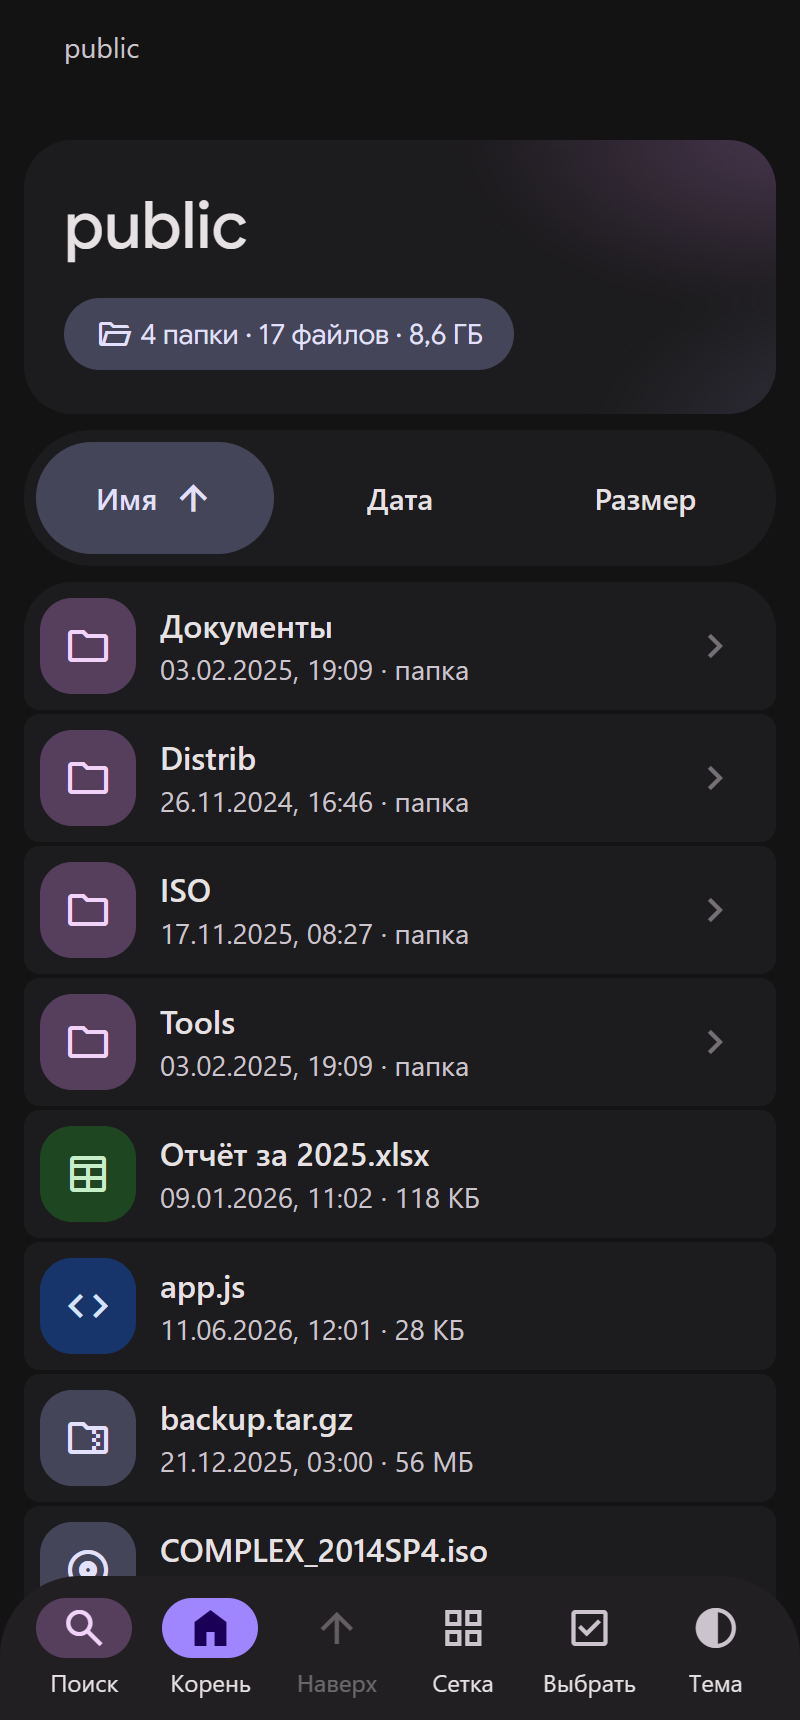
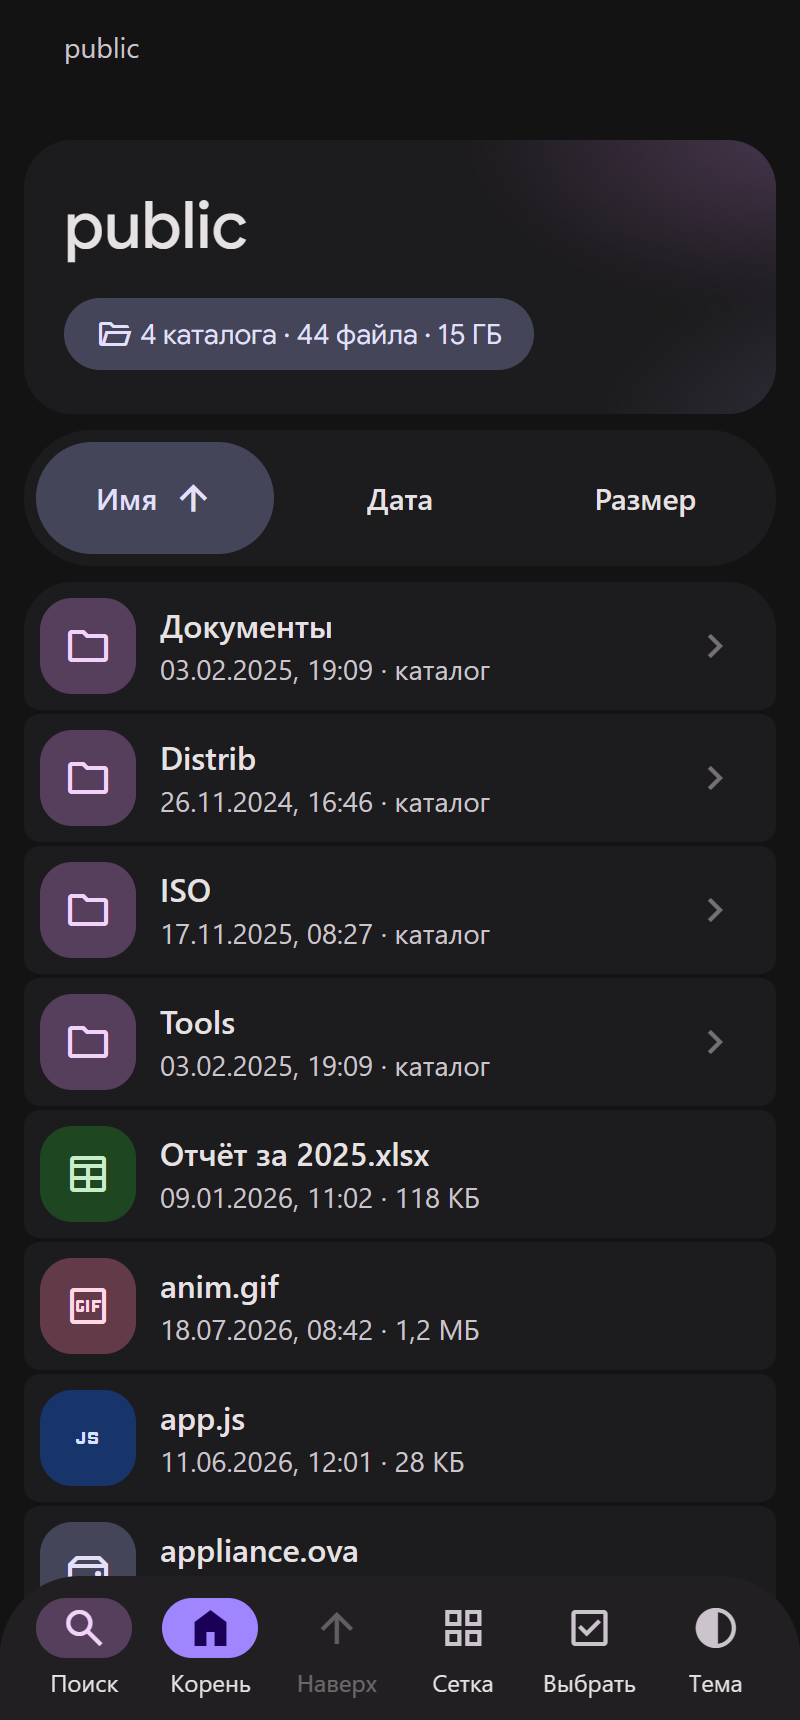
Per-extension glyphs, animated checkbox morph, 'каталог' in the RU strings

diff --git a/dist/m3listing.js b/dist/m3listing.js
@@ -27,16 +27,16 @@
      ------------------------------------------------------------------ */
   var STR = {
     ru: {
-      search: 'Поиск в этой папке', up: 'Наверх', root: 'Корень', home: 'Корень',
+      search: 'Поиск в этом каталоге', up: 'Наверх', root: 'Корень', home: 'Корень',
       name: 'Имя', date: 'Дата', size: 'Размер', theme: 'Тема',
       find: 'Поиск', close: 'Закрыть',
       viewList: 'Список', viewGrid: 'Сетка',
       copy: 'Скопировать ссылку', download: 'Скачать', copied: 'Ссылка скопирована',
       pick: 'Выбрать', selected: 'Выбрано:', dl: 'Скачать', links: 'Ссылки',
       dlStarted: 'Загрузка: {n}', copiedN: 'Скопировано ссылок: {n}',
-      nothing: 'Ничего не найдено', emptyDir: 'Папка пуста', clear: 'Очистить',
-      dirs: ['папка', 'папки', 'папок'], files: ['файл', 'файла', 'файлов'],
-      folder: 'папка', empty: 'пусто'
+      nothing: 'Ничего не найдено', emptyDir: 'Каталог пуст', clear: 'Очистить',
+      dirs: ['каталог', 'каталога', 'каталогов'], files: ['файл', 'файла', 'файлов'],
+      folder: 'каталог', empty: 'пусто'
     },
     en: {
       search: 'Search this folder', up: 'Up', root: 'Root', home: 'Root',
@@ -117,16 +117,20 @@
 
   var GS_MODE = 'pending';        // 'pending' | 'font' | 'svg'
 
-  function icon(name, cls) {
+  function icon(name, cls, fb) {
     var s = document.createElement('span');
     s.className = 'gs' + (cls ? ' ' + cls : '');
     s.setAttribute('aria-hidden', 'true');
     s.dataset.i = name;
+    if (fb) s.dataset.fb = fb;
     s.textContent = name;
     if (GS_MODE === 'svg') toSvg(s);
     return s;
   }
 
+  /* The webfont carries a glyph for every extension below; the bundled SVG
+     set is deliberately coarser (one per family), so a fine-grained name
+     falls back to its family's artwork rather than bloating this file. */
   function toSvg(span) {
     var name = span.dataset.i || span.textContent.trim();
     span.textContent = '';
@@ -134,7 +138,7 @@
     var s = document.createElementNS('http://www.w3.org/2000/svg', 'svg');
     s.setAttribute('viewBox', '0 -960 960 960');
     var p = document.createElementNS('http://www.w3.org/2000/svg', 'path');
-    p.setAttribute('d', P[name] || P.draft);
+    p.setAttribute('d', P[name] || P[span.dataset.fb] || P.draft);
     s.appendChild(p);
     span.appendChild(s);
   }
@@ -156,59 +160,126 @@
   }
 
   /* ------------------------------------------------------------------
-     Extension → { icon, accent }.  Accents a1..a8 are container colours
-     lifted from m3.material.io's own badges, fabs and pills.
-     ------------------------------------------------------------------ */
-  var KIND = {
-    dir:     { icon: 'folder',         acc: 'a1' },
-    image:   { icon: 'image',          acc: 'a3' },
-    video:   { icon: 'movie',          acc: 'a3' },
-    audio:   { icon: 'music_note',     acc: 'a4' },
-    archive: { icon: 'folder_zip',     acc: 'a2' },
-    disk:    { icon: 'album',          acc: 'a2' },
-    exec:    { icon: 'deployed_code',  acc: 'a6' },
-    pdf:     { icon: 'picture_as_pdf', acc: 'a8' },
-    doc:     { icon: 'description',    acc: 'a7' },
-    text:    { icon: 'text_snippet',   acc: 'a7' },
-    sheet:   { icon: 'table',          acc: 'a4' },
-    slides:  { icon: 'slideshow',      acc: 'a7' },
-    code:    { icon: 'code',           acc: 'a7' },
-    shell:   { icon: 'terminal',       acc: 'a7' },
-    font:    { icon: 'font_download',  acc: 'a5' },
-    db:      { icon: 'database',       acc: 'a7' },
-    key:     { icon: 'key',            acc: 'a6' },
-    sub:     { icon: 'subtitles',      acc: 'a5' },
-    torrent: { icon: 'link',           acc: 'a5' },
-    conf:    { icon: 'settings',       acc: 'a7' },
-    file:    { icon: 'draft',          acc: 'a5' }
-  };
+     Extension → { icon, accent, svg fallback }.
 
+     The glyph is per extension — .html, .css, .js, .json, .py and .sh do
+     not all deserve the same `code` mark. The accent is per family, so the
+     page keeps eight colours rather than eighty: a1 directories, a2
+     archives and disk images, a3 pictures and video, a4 audio and sheets,
+     a5 everything else, a6 executables and installers, a7 documents, code,
+     config and crypto, a8 PDF. All eight are container colours lifted from
+     m3.material.io's own badges, fabs and pills.
+     ------------------------------------------------------------------ */
   var EXT = {};
-  (function map(groups) {
-    Object.keys(groups).forEach(function (k) {
-      groups[k].forEach(function (e) { EXT[e] = k; });
+  function reg(exts, glyph, acc, fb) {
+    exts.split(' ').forEach(function (e) {
+      EXT[e] = { icon: glyph, acc: acc, fb: fb || glyph };
     });
-  })({
-    image:   ['jpg','jpeg','png','gif','bmp','webp','svg','tif','tiff','ico','heic','heif','avif','psd','xcf','raw','cr2','nef','dng'],
-    video:   ['mp4','mkv','avi','mov','wmv','flv','webm','m4v','mpg','mpeg','ts','m2ts','vob','3gp','ogv'],
-    audio:   ['mp3','flac','wav','ogg','oga','m4a','aac','wma','opus','ape','mid','midi','aiff'],
-    archive: ['zip','rar','7z','tar','gz','tgz','bz2','tbz','xz','zst','lz','lzma','cab','arj','z'],
-    disk:    ['iso','img','dmg','vhd','vhdx','vmdk','wim','esd','nrg','mdf','cue','bin'],
-    exec:    ['exe','msi','msu','appimage','deb','rpm','apk','pkg','run','com','dll','sys','jar'],
-    pdf:     ['pdf','djvu','xps'],
-    doc:     ['doc','docx','odt','rtf','pages','epub','fb2','mobi'],
-    text:    ['txt','md','markdown','log','nfo','readme','me'],
-    sheet:   ['xls','xlsx','xlsm','ods','csv','tsv','numbers'],
-    slides:  ['ppt','pptx','odp'],
-    code:    ['js','mjs','ts','tsx','jsx','py','c','h','cpp','hpp','cc','cs','java','go','rs','php','rb','pl','lua','swift','kt','scala','r','m','vb','asm','html','htm','xhtml','css','scss','less','json','xml','svgz','tf','hcl'],
-    shell:   ['sh','bash','zsh','fish','bat','cmd','ps1','psm1','ksh'],
-    font:    ['ttf','otf','woff','woff2','eot','fon'],
-    db:      ['db','sqlite','sqlite3','sql','mdb','accdb','dump','bak'],
-    key:     ['pem','crt','cer','pfx','p12','ppk','pub','gpg','kdbx','asc','key'],
-    sub:     ['srt','ass','ssa','sub','vtt','idx'],
-    torrent: ['torrent','magnet'],
-    conf:    ['conf','cfg','ini','yaml','yml','toml','env','properties','plist','reg','service']
-  });
+  }
+
+  var DIR_KIND  = { icon: 'folder', acc: 'a1', fb: 'folder' };
+  var FILE_KIND = { icon: 'draft',  acc: 'a5', fb: 'draft'  };
+
+  /* pictures */
+  reg('jpg jpeg jfif jpe',            'photo_camera',  'a3', 'image');
+  reg('png webp avif heic heif',      'image',         'a3', 'image');
+  reg('gif',                          'gif_box',       'a3', 'image');
+  reg('bmp',                          'wallpaper',     'a3', 'image');
+  reg('tif tiff',                     'filter',        'a3', 'image');
+  reg('ico icns',                     'widgets',       'a3', 'image');
+  reg('svg svgz ai eps',              'draw',          'a3', 'image');
+  reg('psd xcf kra',                  'brush',         'a3', 'image');
+  reg('raw cr2 cr3 nef arw dng orf',  'raw_on',        'a3', 'image');
+
+  /* video */
+  reg('mp4 m4v mov',                  'movie',         'a3', 'movie');
+  reg('mkv webm',                     'local_movies',  'a3', 'movie');
+  reg('avi wmv flv mpg mpeg ts m2ts vob 3gp ogv', 'videocam', 'a3', 'movie');
+
+  /* audio */
+  reg('mp3',                          'music_note',    'a4', 'music_note');
+  reg('flac wav aiff ape',            'graphic_eq',    'a4', 'music_note');
+  reg('m4a aac ogg oga opus wma mid midi', 'audio_file', 'a4', 'music_note');
+
+  /* archives */
+  reg('zip tar tgz gz bz2 tbz xz zst lz lzma z', 'folder_zip', 'a2', 'folder_zip');
+  reg('rar arj',                      'archive',       'a2', 'folder_zip');
+  reg('7z',                           'inventory_2',   'a2', 'folder_zip');
+  reg('cab',                          'package_2',     'a2', 'folder_zip');
+
+  /* disk images and virtual machines */
+  reg('iso',                          'album',         'a2', 'album');
+  reg('img dmg nrg mdf cue',          'disc_full',     'a2', 'album');
+  reg('vhd vhdx vmdk ova ovf qcow2 svm', 'hard_drive', 'a2', 'album');
+  reg('wim esd',                      'storage',       'a2', 'album');
+
+  /* executables, libraries, installers */
+  reg('exe com',                      'deployed_code', 'a6', 'deployed_code');
+  reg('msi msix msp appx',            'package_2',     'a6', 'deployed_code');
+  reg('msu',                          'update',        'a6', 'deployed_code');
+  reg('dll so dylib sys ocx',         'memory',        'a6', 'deployed_code');
+  reg('lib a',                        'inventory',     'a6', 'deployed_code');
+  reg('exp def map',                  'schema',        'a6', 'deployed_code');
+  reg('apk aab',                      'android',       'a6', 'deployed_code');
+  reg('deb rpm pkg snap flatpak',     'inventory_2',   'a6', 'deployed_code');
+  reg('appimage run jar',             'terminal',      'a6', 'deployed_code');
+  reg('sh bash zsh fish ksh bat cmd ps1 psm1', 'terminal', 'a6', 'terminal');
+
+  /* certificates, keys, signatures */
+  reg('pem',                          'verified_user', 'a7', 'key');
+  reg('key ppk',                      'key',           'a7', 'key');
+  reg('pfx p12',                      'password',      'a7', 'key');
+  reg('crt cer der',                  'badge',         'a7', 'key');
+  reg('pub',                          'vpn_key',       'a7', 'key');
+  reg('csr',                          'contract',      'a7', 'key');
+  reg('srl',                          'token',         'a7', 'key');
+  reg('cms p7b p7s',                  'encrypted',     'a7', 'key');
+  reg('ors',                          'policy',        'a7', 'key');
+  reg('attr',                         'label',         'a7', 'key');
+  reg('gpg asc sig',                  'lock',          'a7', 'key');
+  reg('kdbx',                         'shield',        'a7', 'key');
+  reg('lic',                          'workspace_premium', 'a7', 'key');
+
+  /* markup, code, config */
+  reg('html htm xhtml',               'html',          'a7', 'code');
+  reg('css scss sass less',           'css',           'a7', 'code');
+  reg('js mjs cjs jsx ts tsx',        'javascript',    'a7', 'code');
+  reg('php',                          'php',           'a7', 'code');
+  reg('json json5',                   'data_object',   'a7', 'code');
+  reg('xml plist xsd xsl',            'data_array',    'a7', 'code');
+  reg('yaml yml toml ini conf cnf cfg env properties reg service', 'settings', 'a7', 'settings');
+  reg('py ipynb',                     'code_blocks',   'a7', 'code');
+  reg('c cc cpp cxx java kt go rs rb lua swift scala vb asm cs r tf hcl', 'code', 'a7', 'code');
+  reg('h hpp hxx',                    'integration_instructions', 'a7', 'code');
+  reg('pl pm t pod',                  'api',           'a7', 'code');
+  reg('sct vbs wsf',                  'frame_source',  'a7', 'code');
+  reg('tmpl inc',                     'web_asset',     'a7', 'code');
+  reg('sql',                          'database',      'a7', 'database');
+  reg('db sqlite sqlite3 mdb accdb',  'storage',       'a7', 'database');
+  reg('dump bak',                     'backup',        'a7', 'database');
+
+  /* documents */
+  reg('txt utf8 full text',           'article',       'a7', 'text_snippet');
+  reg('md markdown rst adoc',         'notes',         'a7', 'text_snippet');
+  reg('log',                          'list_alt',      'a7', 'text_snippet');
+  reg('nfo readme me',                'sticky_note_2', 'a7', 'text_snippet');
+  reg('doc docx odt rtf pages',       'description',   'a7', 'description');
+  reg('epub fb2 mobi azw3 djvu',      'menu_book',     'a7', 'description');
+  reg('ics ical',                     'event',         'a7', 'description');
+  reg('rdp vnc ica',                  'desktop_windows', 'a7', 'description');
+  reg('dat bin msb external',         'save',          'a5', 'draft');
+  reg('pdf xps',                      'picture_as_pdf','a8', 'picture_as_pdf');
+
+  /* sheets and slides */
+  reg('xls xlsx xlsm ods numbers',    'table',         'a4', 'table');
+  reg('csv tsv',                      'grid_on',       'a4', 'table');
+  reg('ppt pptx odp key-note',        'slideshow',     'a7', 'slideshow');
+
+  /* the rest */
+  reg('ttf otf woff woff2 eot fon',   'font_download', 'a5', 'font_download');
+  reg('srt ass ssa sub vtt idx',      'subtitles',     'a5', 'subtitles');
+  reg('torrent magnet',               'link',          'a5', 'link');
+  reg('lnk url webloc',               'link',          'a5', 'link');
 
   /* ------------------------------------------------------------------
      Helpers
@@ -261,9 +332,20 @@
   }
 
   function kindOf(entry) {
-    if (entry.isDir) return KIND.dir;
-    return KIND[EXT[ext(entry.name)] || 'file'] || KIND.file;
+    if (entry.isDir) return DIR_KIND;
+    return EXT[ext(entry.name)] || FILE_KIND;
   }
+
+  /* every ligature the page can ask the webfont for — the test suite
+     renders each one and fails if it comes back as letters */
+  window.M3L_GLYPHS = (function () {
+    var seen = { folder: 1, draft: 1 };
+    Object.keys(EXT).forEach(function (e) { seen[EXT[e].icon] = 1; });
+    ['folder_open', 'home', 'arrow_upward', 'arrow_downward', 'search', 'close',
+     'grid_view', 'view_list', 'check_box', 'check', 'contrast', 'light_mode',
+     'dark_mode', 'download', 'chevron_right', 'link'].forEach(function (n) { seen[n] = 1; });
+    return Object.keys(seen);
+  })();
 
   /* ------------------------------------------------------------------
      Read the nginx autoindex output
@@ -739,7 +821,7 @@
 
     /* the leading chip doubles as the checkbox */
     var ico = el('span', 'item__ico');
-    ico.appendChild(icon(k.icon, 'type'));
+    ico.appendChild(icon(k.icon, 'type', k.fb));
     ico.appendChild(icon('check', 'check'));
     ico.addEventListener('click', function (ev) {
       ev.preventDefault();

diff --git a/dist/m3listing.css b/dist/m3listing.css
@@ -197,7 +197,11 @@ html:not(.m3l-js) body { padding-left: 0; }
   font-feature-settings: "liga";
   -webkit-font-smoothing: antialiased;
   font-variation-settings: "opsz" 24, "wght" 400, "FILL" 0, "GRAD" 0;
-  transition: font-variation-settings var(--d-fast) var(--ease);
+  /* opacity/transform live here rather than in the state rules below:
+     a second `transition` declaration would replace this list, not extend it */
+  transition: font-variation-settings var(--d-fast) var(--ease),
+              opacity var(--d-fast) var(--ease),
+              transform var(--d-med) var(--ease);
   user-select: none;
 }
 /* ligature names must not flash as words before the font arrives */
@@ -693,16 +697,28 @@ html:not(.gs-ready) .gs { visibility: hidden; }
 /* ---------------------------------------------------------------
    8b. Multi-select
    --------------------------------------------------------------- */
+/* The type glyph and the tick share one grid cell and cross-fade, so the
+   chip morphs into a checkbox instead of snapping (`display` cannot ease). */
 .item__ico { cursor: pointer; }
-.item__ico .gs.check { display: none; }
+.item__ico .gs { grid-area: 1 / 1; }
+.item__ico .gs.check { opacity: 0; transform: scale(.55) rotate(-14deg); }
 
-/* the chip turns into a checkbox on hover, or whenever picking is on */
-@media (hover: hover) {
-  .item__ico:hover .gs.type { display: none; }
-  .item__ico:hover .gs.check { display: block; }
+.item__ico:hover .gs.type,
+.is-picking .item__ico .gs.type,
+.item.is-sel .item__ico .gs.type { opacity: 0; transform: scale(.55); }
+
+.item__ico:hover .gs.check,
+.is-picking .item__ico .gs.check,
+.item.is-sel .item__ico .gs.check { opacity: 1; transform: none; }
+
+@media (hover: none) {
+  .item__ico:hover .gs.type { opacity: 1; transform: none; }
+  .item__ico:hover .gs.check { opacity: 0; transform: scale(.55) rotate(-14deg); }
+  .is-picking .item__ico .gs.type,
+  .item.is-sel .item__ico .gs.type { opacity: 0; transform: scale(.55); }
+  .is-picking .item__ico .gs.check,
+  .item.is-sel .item__ico .gs.check { opacity: 1; transform: none; }
 }
-.is-picking .item__ico .gs.type { display: none; }
-.is-picking .item__ico .gs.check { display: block; }
 
 .item.is-sel { background: var(--secondary-container); border-radius: var(--r-card); }
 .item.is-sel .item__ico {
@@ -710,8 +726,6 @@ html:not(.gs-ready) .gs { visibility: hidden; }
   color: var(--on-primary);
   border-radius: 28px;
 }
-.item.is-sel .item__ico .gs.type { display: none; }
-.item.is-sel .item__ico .gs.check { display: block; }
 .item.is-sel .item__name { color: var(--on-secondary-container); }
 
 /* floating action bar */

diff --git a/dist/top.html b/dist/top.html
@@ -11,7 +11,7 @@
 <link rel="preconnect" href="https://fonts.gstatic.com" crossorigin>
 <!-- bump ?v= on every asset change: proxies and browsers cache these, and a
      stale css/js pair is the one way this can break after an update -->
-<link rel="stylesheet" href="/.m3listing/m3listing.css?v=1">
+<link rel="stylesheet" href="/.m3listing/m3listing.css?v=2">
 
 <script>
 /* Runs before paint: marks the document as JS-capable (so a no-JS client
@@ -32,7 +32,7 @@ window.M3LISTING = {
 };
 /* --------------------------------------------------------------------- */
 </script>
-<script defer src="/.m3listing/m3listing.js?v=1"></script>
+<script defer src="/.m3listing/m3listing.js?v=2"></script>
 </head>
 
 <body>
